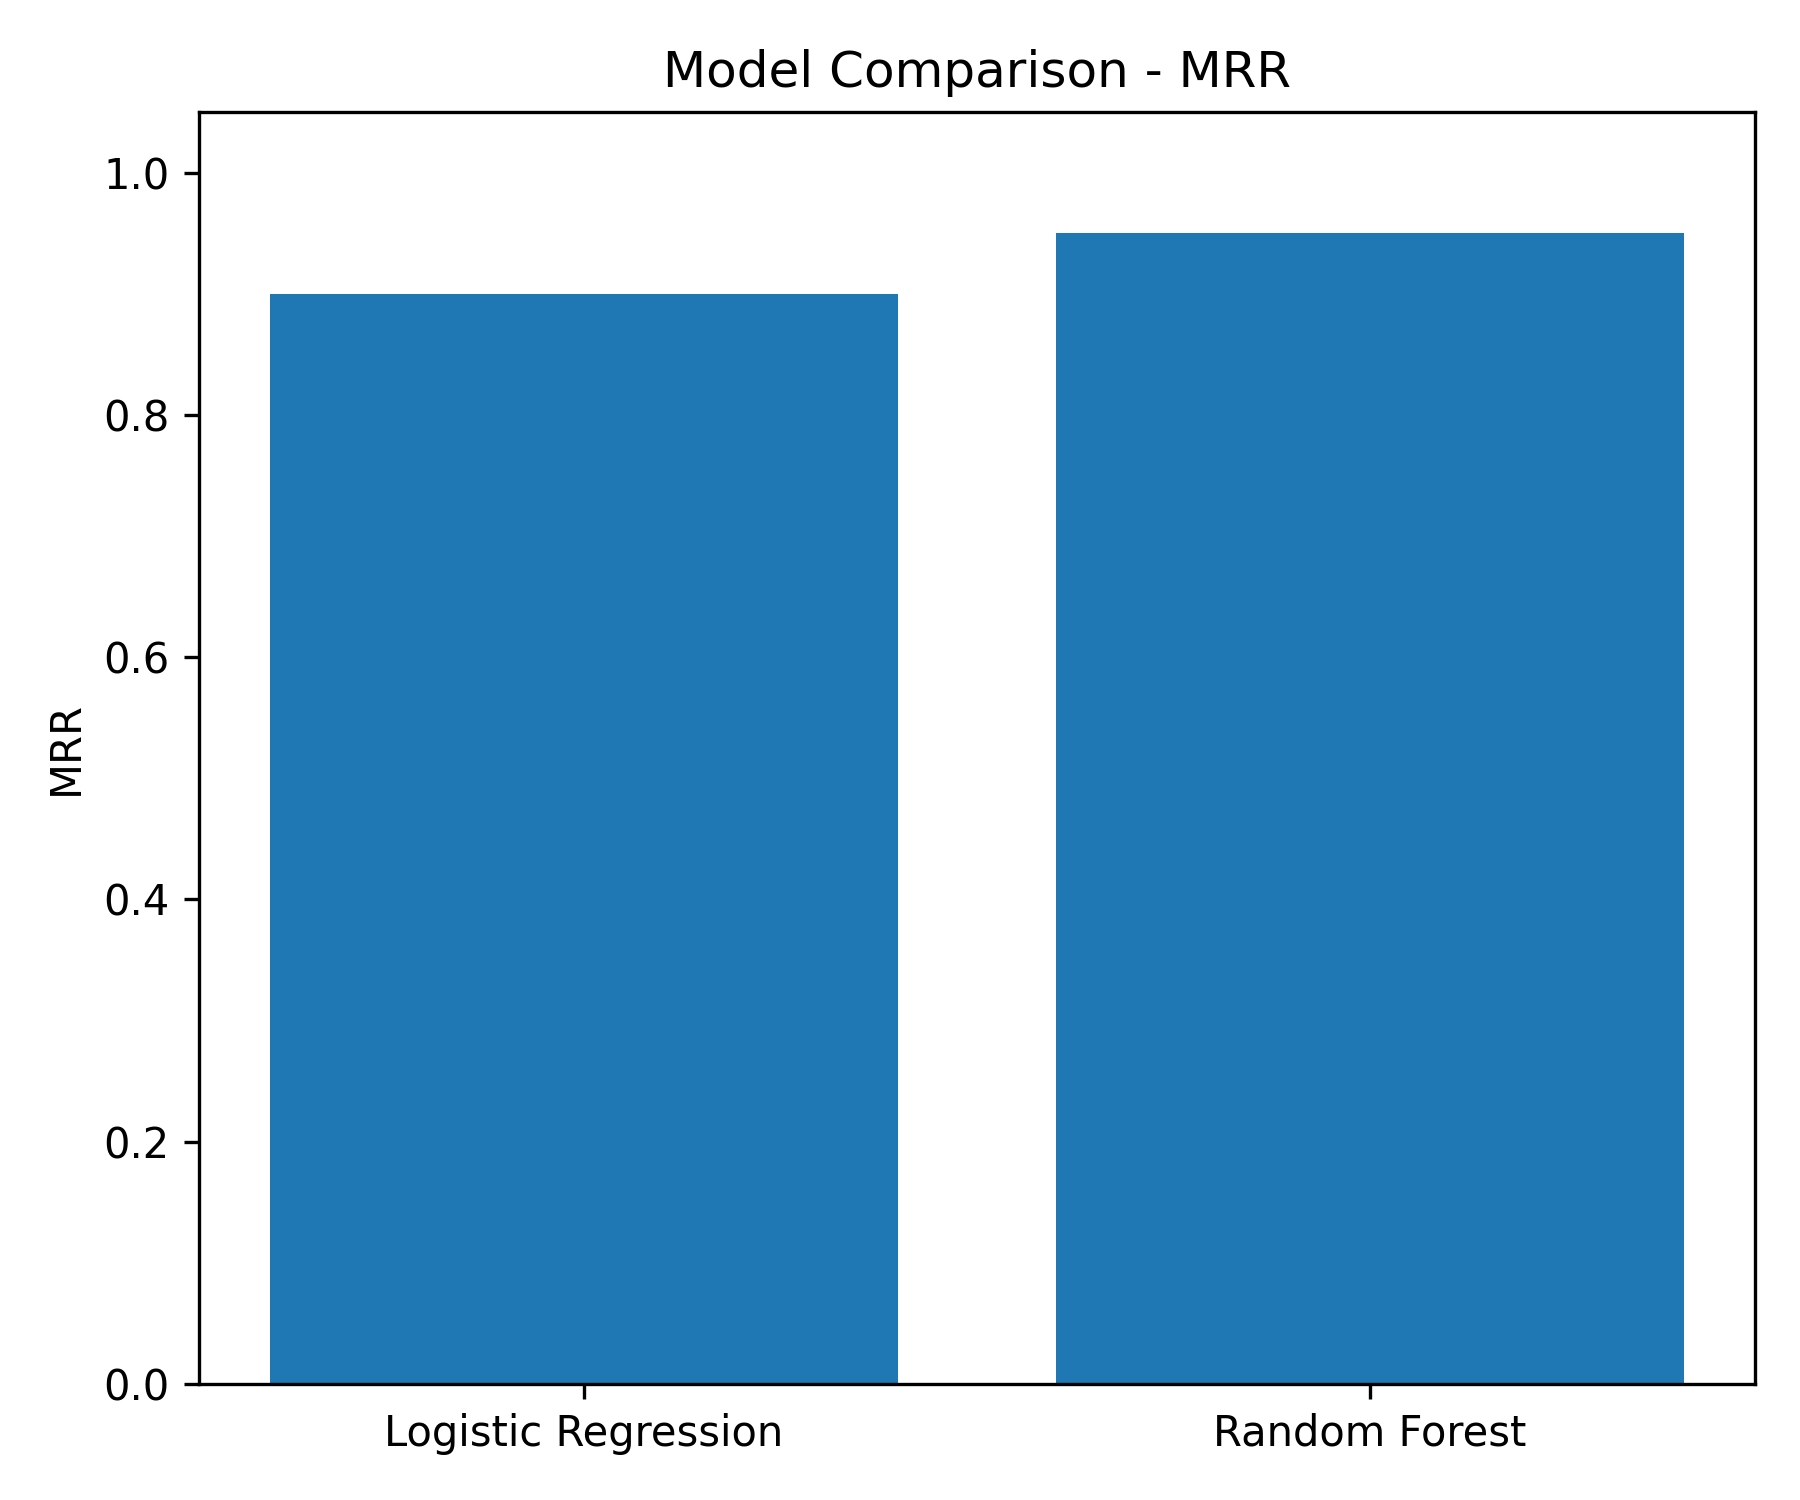
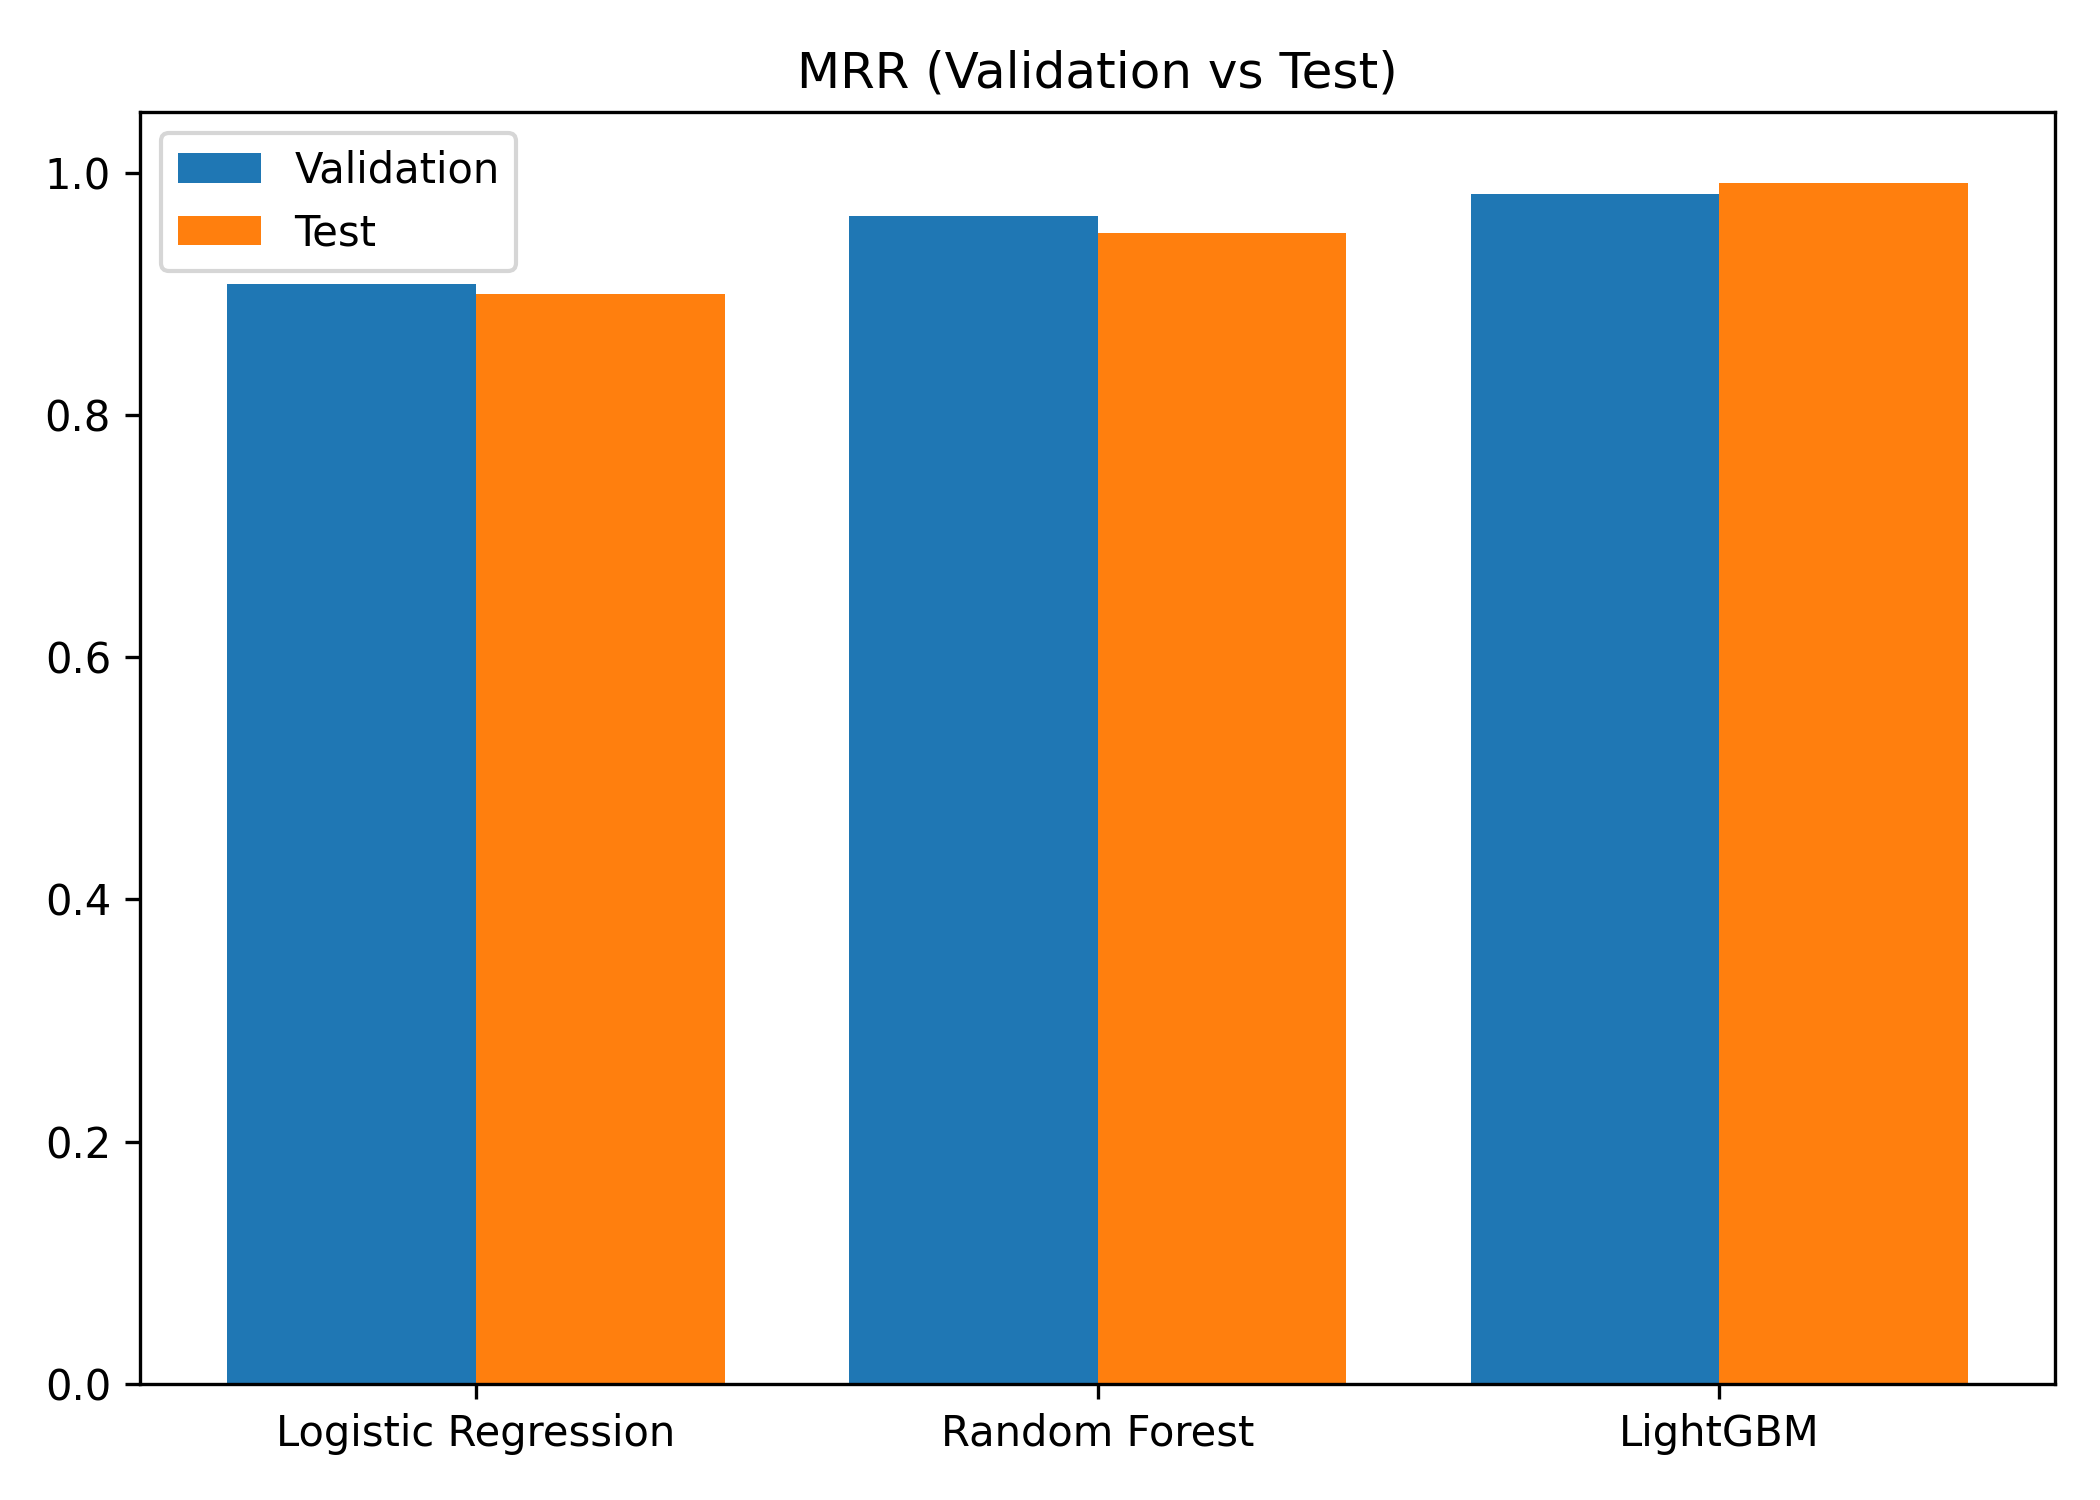
Increment 2: Add final model comparison with charts and metrics for Logistic Regression, Random Forest, and LightGBM

diff --git a/EDA_CoreEngine/src/eda/ML/compare_models.py b/EDA_CoreEngine/src/eda/ML/compare_models.py
@@ -1,19 +1,19 @@
 """
 compare_models.py
 
-Model comparison for the EDA ML stage.
+Final model comparison for the EDA ML stage.
 
 Purpose:
-- Compare Logistic Regression vs Random Forest
+- Compare Logistic Regression, Random Forest, and LightGBM
 - Focus on scenario-level performance (decision quality)
-- Generate charts and tables for report
+- Generate charts and tables for the final report
 
 Key Metrics:
 - Top-1 Accuracy (did we pick the correct airport)
 - MRR (how well we rank the correct airport)
 
 Output:
-- Comparison charts (bar plots)
+- Comparison charts (grouped bar plots)
 - Comparison table (CSV)
 """
 
@@ -25,6 +25,7 @@ import matplotlib.pyplot as plt
 
 # Paths
 
+
 BASE_REPORT_DIR = Path("reports/ml_experiments")
 OUTPUT_DIR = BASE_REPORT_DIR / "comparison"
 FIG_DIR = OUTPUT_DIR / "figures"
@@ -34,7 +35,9 @@ FIG_DIR.mkdir(parents=True, exist_ok=True)
 TABLE_DIR.mkdir(parents=True, exist_ok=True)
 
 
+
 # Load metrics from saved JSON
+
 
 def load_metrics(model_name: str, split: str):
     """
@@ -47,18 +50,47 @@ def load_metrics(model_name: str, split: str):
 
 # Build comparison table
 
+
 def build_comparison_table():
     """
-    Creates a table comparing models on TEST set (final evaluation).
+    Creates a table comparing all models on VALIDATION and TEST sets.
     """
 
+    lr_val = load_metrics("logistic_regression", "validation")
     lr_test = load_metrics("logistic_regression", "test")
+
+    rf_val = load_metrics("random_forest", "validation")
     rf_test = load_metrics("random_forest", "test")
 
+    lgb_val = load_metrics("lightgbm", "validation")
+    lgb_test = load_metrics("lightgbm", "test")
+
     df = pd.DataFrame({
-        "Model": ["Logistic Regression", "Random Forest"],
-        "Top-1 Accuracy": [lr_test["top1_accuracy"], rf_test["top1_accuracy"]],
-        "MRR": [lr_test["mrr"], rf_test["mrr"]],
+        "Model": ["Logistic Regression", "Random Forest", "LightGBM"],
+
+        "Val Top-1": [
+            lr_val["top1_accuracy"],
+            rf_val["top1_accuracy"],
+            lgb_val["top1_accuracy"],
+        ],
+
+        "Test Top-1": [
+            lr_test["top1_accuracy"],
+            rf_test["top1_accuracy"],
+            lgb_test["top1_accuracy"],
+        ],
+
+        "Val MRR": [
+            lr_val["mrr"],
+            rf_val["mrr"],
+            lgb_val["mrr"],
+        ],
+
+        "Test MRR": [
+            lr_test["mrr"],
+            rf_test["mrr"],
+            lgb_test["mrr"],
+        ],
     })
 
     return df
@@ -67,17 +99,25 @@ def build_comparison_table():
 
 # Plot comparison charts
 
-def plot_metric(df, metric_name, filename):
+
+def plot_metric(df, val_col, test_col, title, filename):
     """
-    Creates a bar chart comparing models for a given metric.
+    Creates grouped bar chart for Validation vs Test comparison.
     """
 
-    fig, ax = plt.subplots(figsize=(6, 5))
+    fig, ax = plt.subplots(figsize=(7, 5))
 
-    ax.bar(df["Model"], df[metric_name])
-    ax.set_title(f"Model Comparison - {metric_name}")
-    ax.set_ylabel(metric_name)
+    x = range(len(df["Model"]))
+
+    ax.bar(x, df[val_col], width=0.4, label="Validation")
+    ax.bar([i + 0.4 for i in x], df[test_col], width=0.4, label="Test")
+
+    ax.set_xticks([i + 0.2 for i in x])
+    ax.set_xticklabels(df["Model"])
+
+    ax.set_title(title)
     ax.set_ylim(0, 1.05)
+    ax.legend()
 
     fig.tight_layout()
     fig.savefig(FIG_DIR / filename, dpi=300)
@@ -87,19 +127,33 @@ def plot_metric(df, metric_name, filename):
 
 # Main
 
+
 def main():
 
-    print("Building model comparison...")
+    print("Building final model comparison...")
 
-    # Create table
+    # Create comparison table
     df = build_comparison_table()
 
-    # Save table
+    # Save comparison table
     df.to_csv(TABLE_DIR / "comparison_metrics.csv", index=False)
 
-    # Create charts
-    plot_metric(df, "Top-1 Accuracy", "top1_comparison.png")
-    plot_metric(df, "MRR", "mrr_comparison.png")
+    # Create comparison charts
+    plot_metric(
+        df,
+        "Val Top-1",
+        "Test Top-1",
+        "Top-1 Accuracy (Validation vs Test)",
+        "top1_comparison.png",
+    )
+
+    plot_metric(
+        df,
+        "Val MRR",
+        "Test MRR",
+        "MRR (Validation vs Test)",
+        "mrr_comparison.png",
+    )
 
     print("Comparison complete.")
     print("Saved to:", OUTPUT_DIR)
